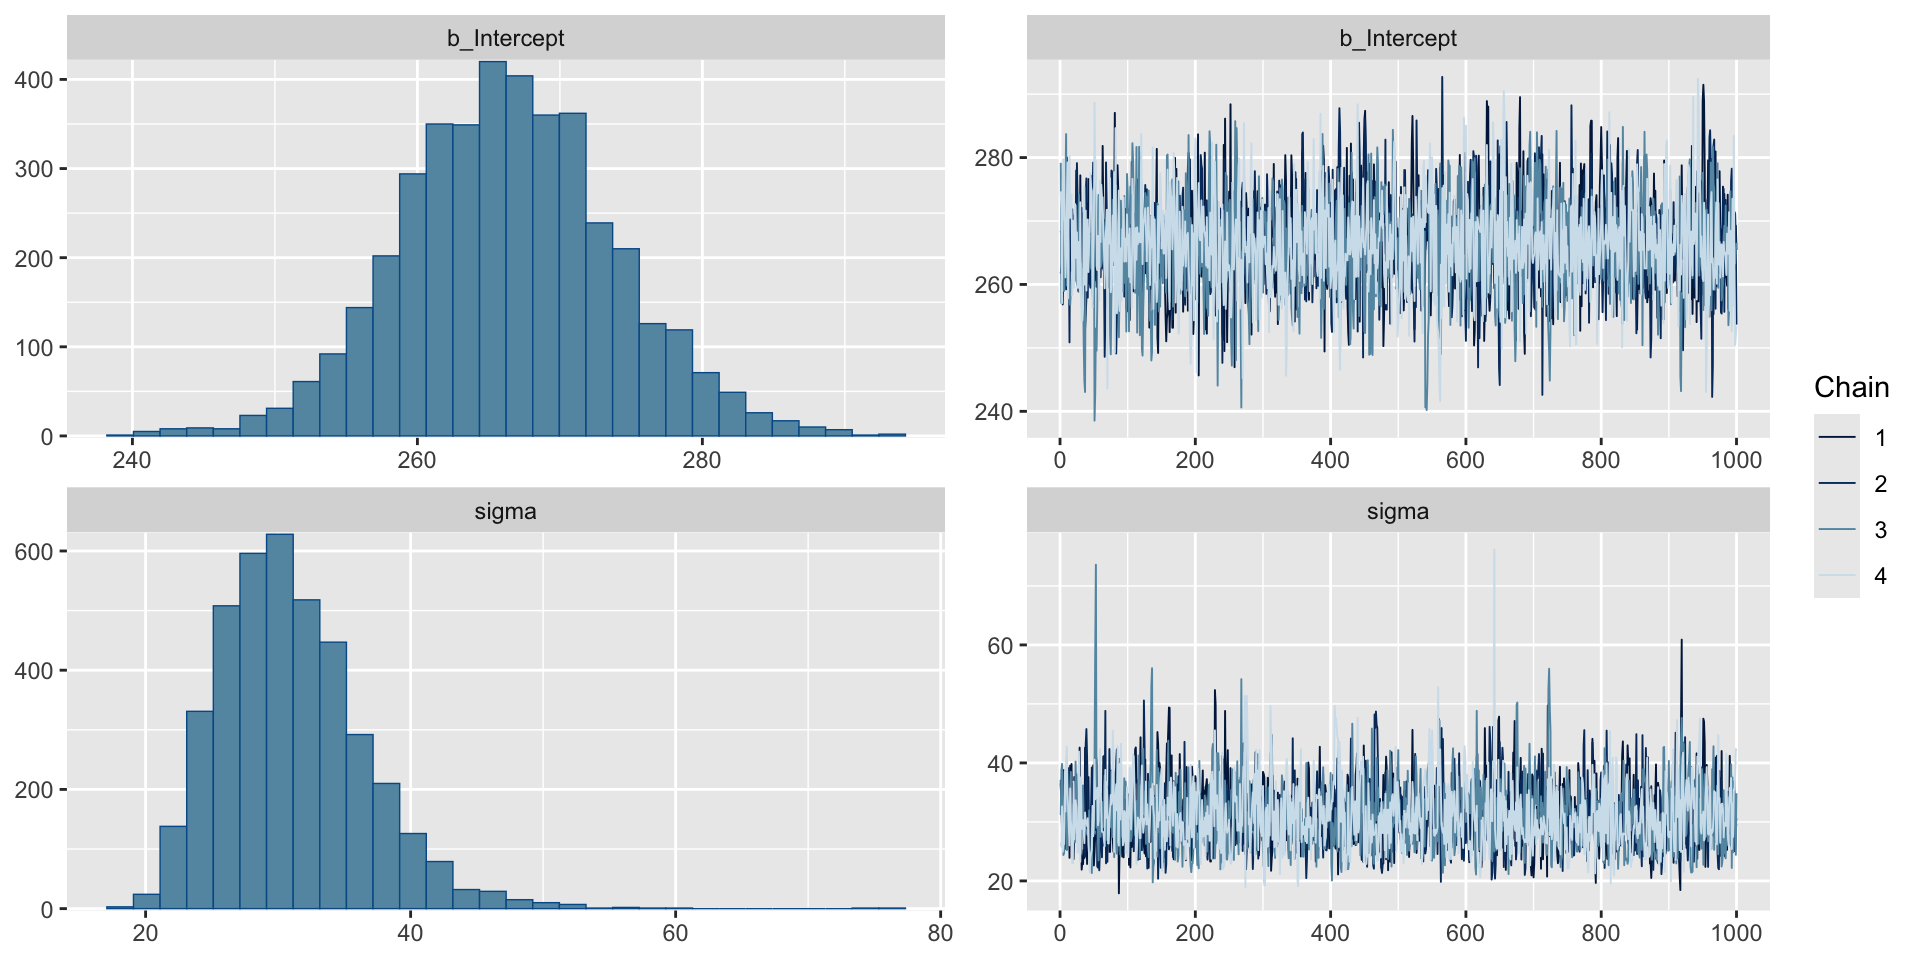
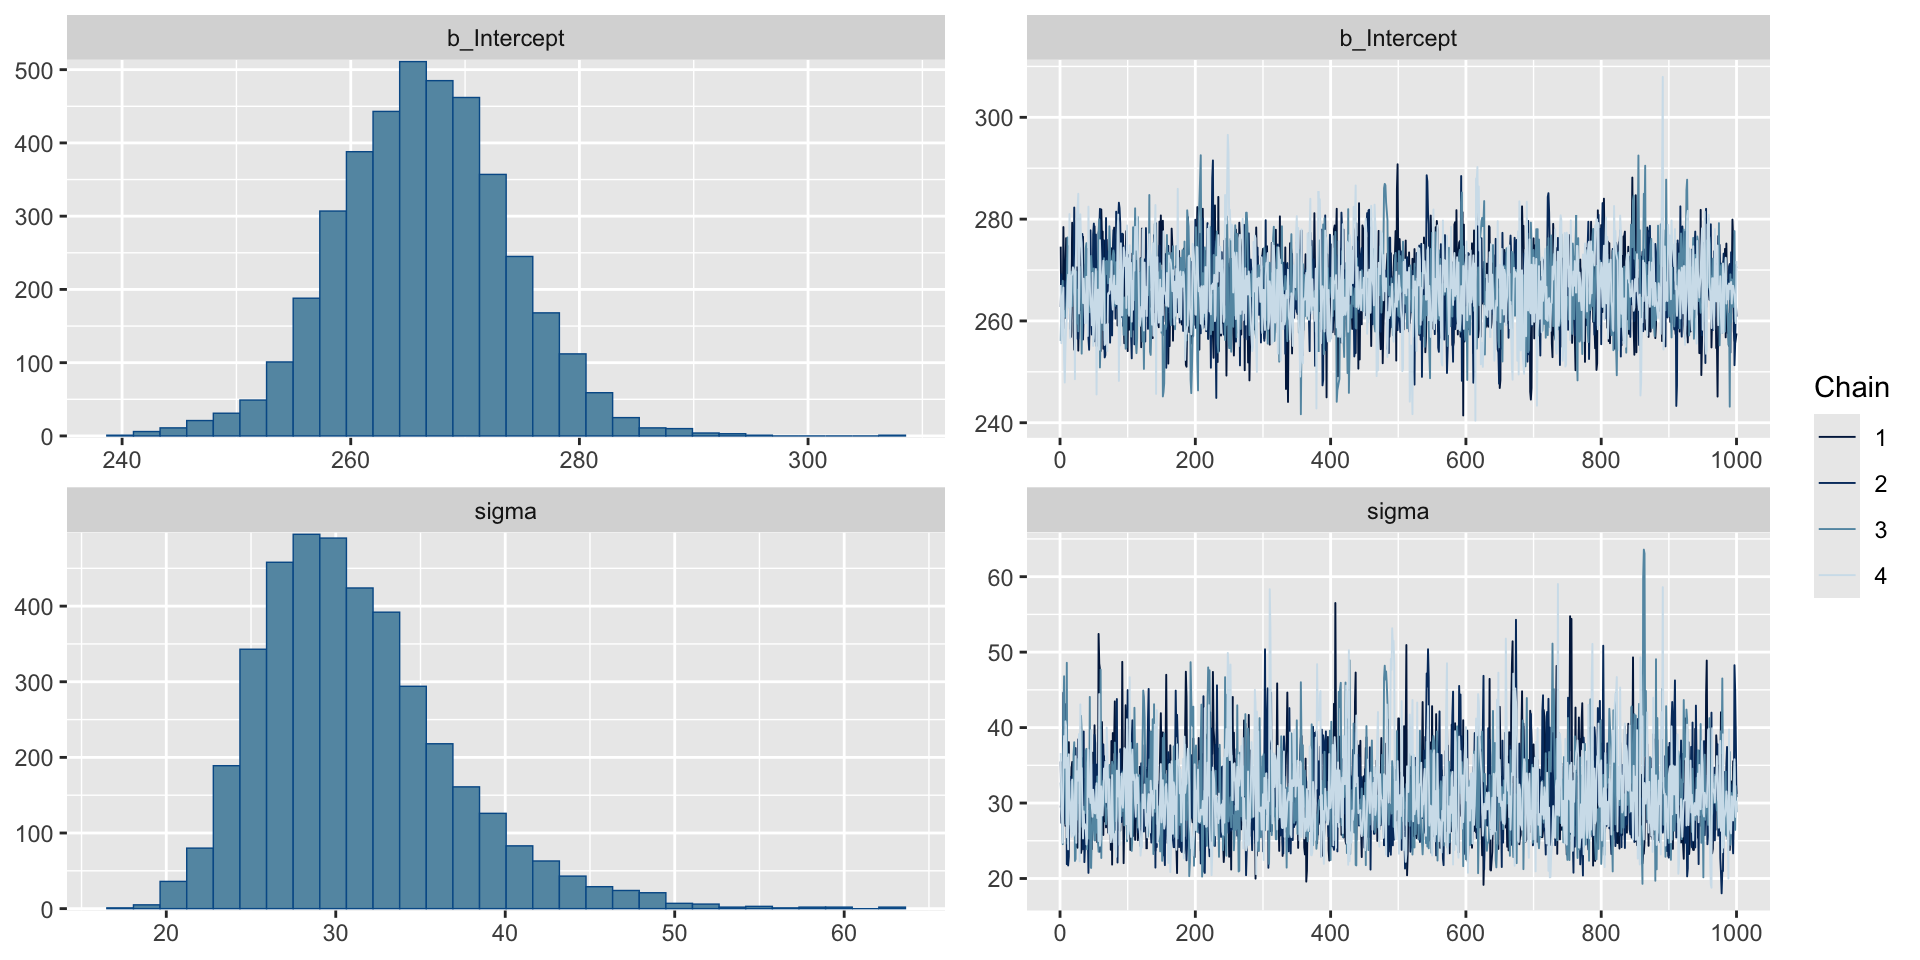
fixed small typo

diff --git a/day-3-posterior/2-lec-posterior-analysis/2-lec-posterior-analysis.html b/day-3-posterior/2-lec-posterior-analysis/2-lec-posterior-analysis.html
@@ -526,11 +526,11 @@ Formula: Reaction ~ 1
 
 Regression Coefficients:
           Estimate Est.Error l-95% CI u-95% CI Rhat Bulk_ESS Tail_ESS
-Intercept   266.36      7.51   251.91   281.62 1.00     2791     2347
+Intercept   266.40      7.46   251.83   280.94 1.00     2463     1886
 
 Further Distributional Parameters:
       Estimate Est.Error l-95% CI u-95% CI Rhat Bulk_ESS Tail_ESS
-sigma    31.06      5.50    22.46    43.17 1.00     2423     2115
+sigma    31.15      5.66    22.44    44.75 1.00     2330     2092
 
 Draws were sampled using sampling(NUTS). For each parameter, Bulk_ESS
 and Tail_ESS are effective sample size measures, and Rhat is the potential
@@ -564,14 +564,14 @@ scale reduction factor on split chains (at convergence, Rhat = 1).</code></pre>
 <span id="cb6-2"><a href=""></a><span class="in">mean(as_draws_df(fit)$b_Intercept&lt;275)</span></span>
 <span id="cb6-3"><a href=""></a><span class="in">```</span></span></code><button title="Copy to Clipboard" class="code-copy-button"><i class="bi"></i></button></pre></div>
 <div class="cell-output cell-output-stdout">
-<pre><code>[1] 0.87675</code></pre>
+<pre><code>[1] 0.88125</code></pre>
 </div>
 </div>
-<p>So the posterior probability that <span class="math inline">\(\mu&lt;275\)</span> is 0.87675.</p>
+<p>So the posterior probability that <span class="math inline">\(\mu&lt;275\)</span> is 0.88125.</p>
 </section>
 <section id="evaluating-our-hypothesis-2" class="slide level2">
 <h2>Evaluating Our Hypothesis</h2>
-<p>We can also use the 95% credible interval for <span class="math inline">\(\mu\)</span>, given by (251.91,281.62) and note that 275 is inside this credible interval.</p>
+<p>We can also use the 95% credible interval for <span class="math inline">\(\mu\)</span>, given by (251.83,280.94) and note that 275 is inside this credible interval.</p>
 </section>
 <section id="you-try-it" class="slide level2">
 <h2>You Try It!</h2>
@@ -581,7 +581,7 @@ scale reduction factor on split chains (at convergence, Rhat = 1).</code></pre>
 </section>
 <section id="changes-in-reaction-time-with-sleep-deprivation" class="slide level2">
 <h2>Changes in Reaction Time with Sleep Deprivation</h2>
-<p>Now that we’ve explored baseline reaction time, let’s see what happens to the reaction times of study participants after one night of sleep deprivation (only 3 hours of time in bed). First, we will do a little data wrangling and make a plot of the changse in reaction time, plotting the sleep deprived reaction time minus the baseline reaction time for each subject.</p>
+<p>Now that we’ve explored baseline reaction time, let’s see what happens to the reaction times of study participants after one night of sleep deprivation (only 3 hours of time in bed). First, we will do a little data wrangling and make a plot of the changes in reaction time, plotting the sleep deprived reaction time minus the baseline reaction time for each subject.</p>
 </section>
 <section id="changes-in-reaction-time" class="slide level2">
 <h2>Changes in Reaction Time</h2>
